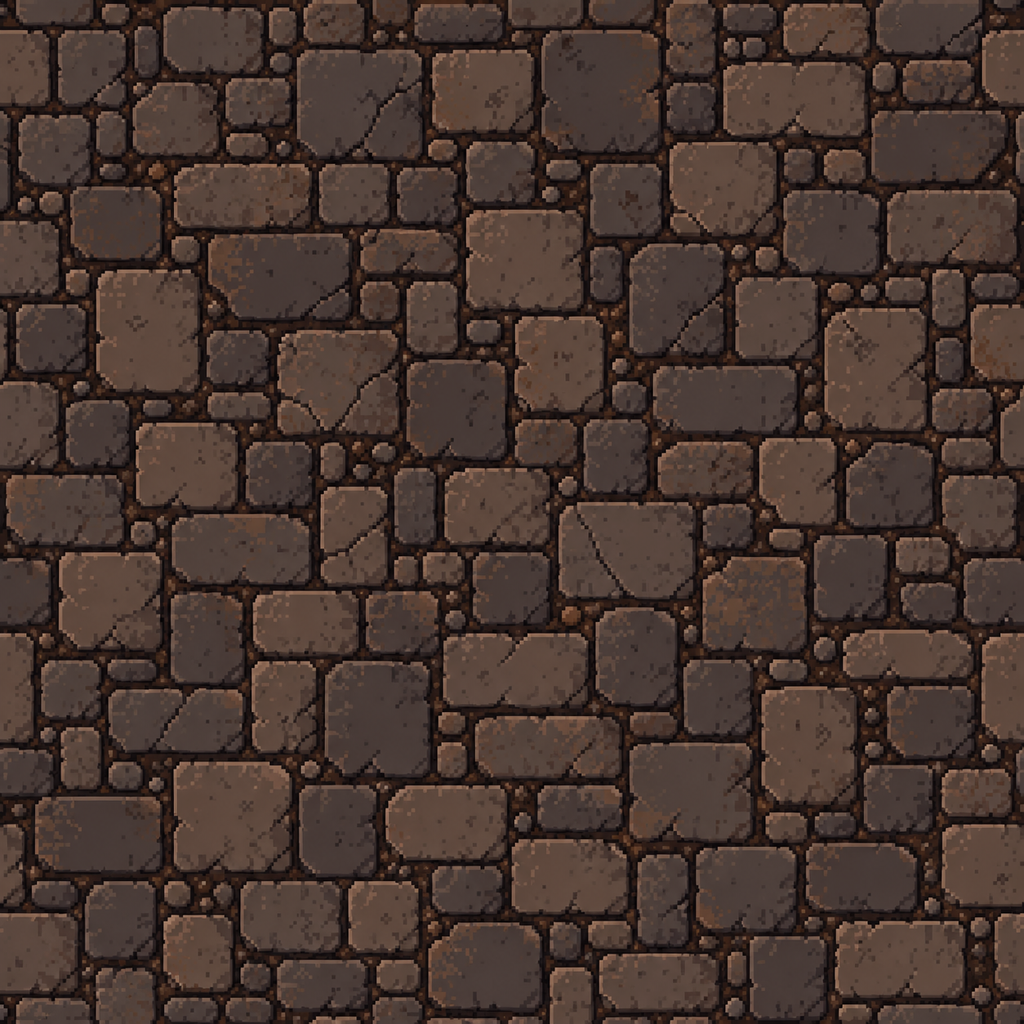
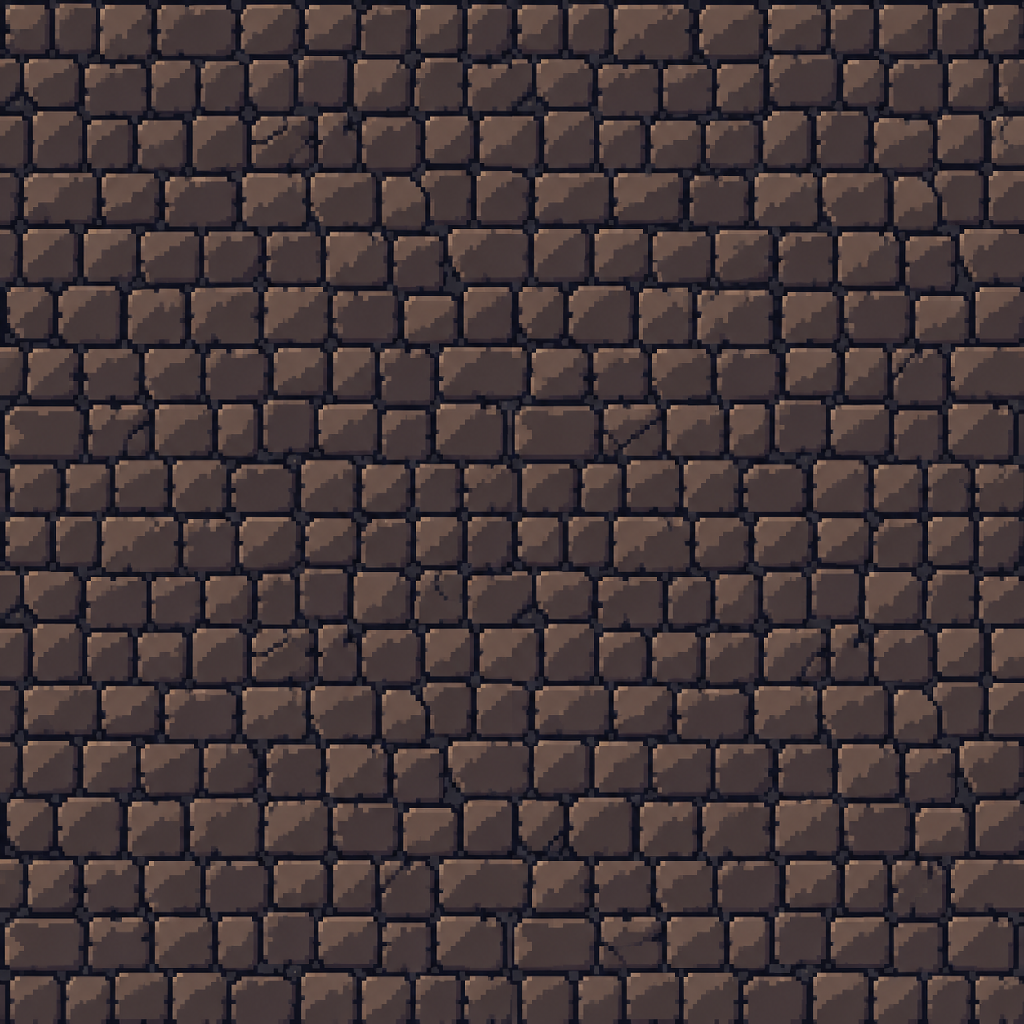
Close 193: finer dungeon floor, thinner wall-top masonry, smaller brazier light
Claude-Session: https://claude.ai/code/session_01M7b7fEc6KTtLRMcTBe4w6Y

diff --git a/live/scene.js b/live/scene.js
@@ -295,7 +295,7 @@ void main(){ vec2 q = v_uv * 2.0 - 1.0; float r = length(q), a = atan(q.y, q.x);
     const key = mapKey(m); if (VOID.key === key) return VOID.rec; VOID.key = key;
     const W = m.W, H = m.H, d = rockDist(m);
     const cv = VOID.cv || (VOID.cv = document.createElement('canvas')); cv.width = W; cv.height = H; const g = cv.getContext('2d'), im = g.createImageData(W, H);
-    for (let i = 0; i < W * H; i++) { const x = i % W, y = Math.floor(i / W), e = Math.min(x, y, W - 1 - x, H - 1 - y), v = Math.round(255 * Math.max(SS(1.4, 2.4, d[i]), 1 - SS(0, 2.5, e))); im.data[i * 4] = im.data[i * 4 + 1] = im.data[i * 4 + 2] = v; im.data[i * 4 + 3] = 255; }
+    for (let i = 0; i < W * H; i++) { const x = i % W, y = Math.floor(i / W), e = Math.min(x, y, W - 1 - x, H - 1 - y), v = Math.round(255 * Math.max(SS(1.25, 2.15, d[i]), 1 - SS(0, 2.5, e))); im.data[i * 4] = im.data[i * 4 + 1] = im.data[i * 4 + 2] = v; im.data[i * 4 + 3] = 255; }
     g.putImageData(im, 0, 0);
     if (!VOID.rec) VOID.rec = G.canvasTex('void', cv);
     else { const gl = G.gl; gl.bindTexture(gl.TEXTURE_2D, VOID.rec.t); gl.pixelStorei(gl.UNPACK_PREMULTIPLY_ALPHA_WEBGL, true); gl.texImage2D(gl.TEXTURE_2D, 0, gl.RGBA, gl.RGBA, gl.UNSIGNED_BYTE, cv); gl.generateMipmap(gl.TEXTURE_2D); }
@@ -696,7 +696,7 @@ void main(){ vec2 q = v_uv * 2.0 - 1.0; float r = length(q), a = atan(q.y, q.x);
     // a green fire reaches less far: the crypt is lit in pools, not flooded (TASKS 169); so does a cold hearth on the floor, its
     // near light in its own colour, or a zone's four to six of them wash its floor pale (TASKS 188)
     const TL = []; m.torches.forEach((tc, i) => { if (hid(tc)) return; const col = torchCol(m, tc), f = flick(i) * (col[2] > col[0] ? 1.35 : 1), big = tc.kind === 'fire', gr = col[1] > col[0] && col[1] > col[2] ? 0.7 : 1;
-      const pool = col[0] < 0.5 && tc.kind === 'brazier', pr = pool ? 0.6 : 1, pa = pool ? 0.6 : 1;
+      const pool = col[0] < 0.5 && tc.kind === 'brazier', pr = (pool ? 0.6 : 1) * (tc.kind === 'brazier' ? 0.8 : 1), pa = pool ? 0.6 : 1;   // a brazier's pool is a fifth smaller: its light fell off too gently (TASKS 193)
       TL.push([tc.x - (tc.side || 0) * 30, tc.y - (tc.side ? 10 : tc.kind === 'wall' ? -10 : 20), (big ? 200 : 220) * gr * pr, col, (big ? 1.5 : 1.15) * f * pa, 3.0]);
       if (col[0] < 0.5) TL.push([tc.x - (tc.side || 0) * 9, tc.y - 14, 70, col.map((v) => 0.3 + 0.7 * v), 2.2 * f, 2.6]);
       TL.push([tc.x - (tc.side || 0) * 16, tc.y + (tc.side ? 0 : tc.kind === 'wall' ? 34 : 6), 130 * gr * pr, pool ? col : col.map((v) => 0.5 + 0.5 * v), 1.7 * f * pa, 3.5]); });
@@ -919,7 +919,7 @@ void main(){ vec2 q = v_uv * 2.0 - 1.0; float r = length(q), a = atan(q.y, q.x);
     const lt = (x, y, r, col, amt, k = 2.2) => { if (x < cx - r || x > cx + VW + r || y < cy - r || y > cy + VH + r) return; G.draw(L.P.glow, { u_col: col, u_k: k, u_amt: amt }, G.xf(sx(x) - r, sy(y) - r * 0.8, 2 * r, 1.6 * r)); };
     // the hero is the frame's focus: a wide fill plus a tight warm key on the body that barely reaches the floor around him.
     // Away from fire the fill is the player's lamp: 3–4 cells of floor, traps and foes must read in a dark corridor (TASKS 170)
-    lt(h.x, h.y - 30, 250, [0.8, 0.72, 0.6], 0.2 + 0.8 * (1 - HERO.k)); lt(h.x, h.y - 44, 95, [1, 0.88, 0.7], 0.85 * (1 - 0.8 * HERO.k), 2.4);
+    lt(h.x, h.y - 30, 250, [0.8, 0.72, 0.6], 0.1 + 0.9 * (1 - HERO.k) ** 2); lt(h.x, h.y - 44, 95, [1, 0.88, 0.7], 0.85 * (1 - 0.8 * HERO.k), 2.4);
     for (const e of R.en) if (e.deadT < 0 && e.st !== 'idle' && vis(e.x, e.y)) lt(e.x, e.y - 40, 70, [1, 0.8, 0.6], 0.12);
     for (const [id, p] of Object.entries(RIM.hands)) lt(p[0] + cx, p[1] + cy, 60, [0.5, 1, 0.3], 0.8);
     TL.forEach((q) => lt(...q));

diff --git a/TASKS_COMPLETED.md b/TASKS_COMPLETED.md
@@ -37,6 +37,8 @@
 
 ## Свет и вид
 
+193. ✅ **[С]** Этап 2, меньшие разрывы (`fidelity_r5.md` 8–10, остаток 164). Свет комнаты ровный: кольца героя на 128–160 px 36–32 против 22–16, жаровня на 64–96 px 42–32 против 28–23 — фонарь героя гаснуть у огня сильнее (`0,2 + 0,8 · (1 − HERO.k)` → `0,1 + 0,9 · (1 − HERO.k)²`), радиус жаровен −20 %; приёмка: в боевой комнате чёрного ≥ 13 %, p75 ≤ 40. Кладка: толщина p90 22,2 против 15,6, пятно 50,6 против 17,7 тыс., пустота 26,4 против 30,3 % — `voidTex` `SS(1,4; 2,4)` → `SS(1,25; 2,15)`, клетки скалы дальше 3 клеток от пола со всех сторон — всегда пустота (пятна на стыке комнат рвутся); приёмка — как в 164. Пол: раствора 3–12 против 19–21 %, камни в 1,3–2 раза крупнее — перегенерировать `floor` подземелья: «top-down dungeon floor tile, small square cobblestones 8–10 px each, 1-px dark mortar #141420 between every stone, grey-brown stone #3e3234 / #6b5c56, flat 3 tone steps, no gradients, seamless». → Сделано по задаче: заливка фонаря героя `0,1 + 0,9 · (1 − k)²`, свет жаровен на 20 % уже, порог пустоты `SS(1,25; 2,15)`; пол подземелья перегенерирован (`art/prompts/floor_d6_tex.txt`: брусчатка ≈ 5 арт-px, раствор `#141420` в 1 арт-px вокруг каждого камня; прежний — `art/old/floor193/`): в кадре мелкие камни с отчётливыми швами вместо крупных плит. Кладка (`slate_r5.py`, кадр `match`): пустота 31,2 → 33,6 % ✓, крупнейшее пятно кладки 26 → 16 тыс. ✓; мерка задачи даёт 112 тыс. и p90 20 px, но это не кладка — тёмный синеватый пол синего зала попадает в класс «холодный сланец» (L 5–25, синий тон); без него толщина p90 12 px. Свет — не взят: комната боя (бокс той же геометрии, что у концепта, вокруг героя ×1,17) p75 47,7 → 44,5 (цель ≤ 40), чёрного 8,4 → 8,5 % (≥ 13). В `match` у героя k = 0 (жаровни до него не достают), поэтому новая формула фонаря там ничего не меняет; без фонаря комната совпала бы (p75 38, чёрного 13 %), но фонарь освещает и врагов вокруг героя — с ослабленным в 6 раз демон и гоблин уходят в черноту. Закрыто по решению игрока: яркость боя принята — фонарь держит врагов вокруг героя читаемыми.
+
 186. ✅ **[С][И]** Этап 2 (`frame_r4.md` 3). Лава — ровное оранжевое желе: L внутри лужи p10/p50/p90 52,7 / 55,6 / 58,5, Lstd 2,8 против 21–23 у концепта, корки 0 % против 53–67 %; лава складывается аддитивно поверх пола, швы плит видны сквозь неё; в `zone_lava` («Огненные глубины») ни одной клетки лавы, в концепте — 5,6 % кадра. Шейдер `LAVA`: порог плит `smoothstep(0,6; 0,66)` → `(0,48; 0,54)`, масштаб `w / 34` → `w / 16`, полоса `cool` 2–6,5 → 1–3 px, трещины горячие, корка без подъёма, `w` квантовать по арт-пикселю. Основа (`u_mode 0`) писать в `L.T.comp` до `LIT` (пол под ней не виден), эмиссивом оставить только `hot`. `dungeon.js`: в огненных глубинах ≥ 2 лавовые «реки» по 8+ клеток, одна в 1–2 комнатах от старта; сундуки и пропсы не ставить на лаву и в клетку от берега (сейчас сундук наполовину в лаве, `lava_pool`). Приёмка: Lstd ≥ 15, корки 35–55 %, в `zone_lava` лава ≥ 3 % кадра. → **[И] Дополнение игрока:** лава сейчас — пятна и лужицы (`dungeon.js`: кляксы в боковых нишах комнат), по кадру не видно, что это лавовый уровень. Нужны **потоки**: реки лавы шириной 2–5 клеток, которые текут через комнаты и между ними (из пролома в стене к провалу), с видимым течением — корка дрейфует по направлению потока, у берегов и камней горячая кромка; лавовые залы, где лава — большая часть пола. Образец — левая треть `ref.png`: широкие реки с коркой и горячими трещинами, кирпичные берега ступенями, цепные мосты над лавой, каменные островки и столбы в потоке. Оговорка: всё проходимо — через каждую реку мост, каменная тропа или брод из плит; путь к выходу, сундукам и тайникам всегда есть (`selfCheck`: достижимость, ни один спавн и сундук не в клетке от лавы). Сверять по биомному рефу лавы (212). → Шейдер (попутно с 189): внутри берега — ячейки Вороного (`w / 17`), плиты корки двух тонов `(0,16; 0,03; 0,02)` / `(0,34; 0,09; 0,045)`, трещины тремя ровными ступенями янтарь → оранжевый → красный, местами открытая река и утонувшие плиты, всё дрейфует; второй проход `u_mode 2` в режиме `emit` — свет огней больше не красит корку в оранжевый, пол сквозь лаву не виден. Тона по концепту: основная масса жидкой лавы красно-оранжевая `(243, 20, 2)`, жёлтого почти нет. Замер (поле `match`, внутри берега): Lstd 15,7 (концепт 19,2), p10 / p50 / p90 21 / 52 / 69 (концепт 20 / 54 / 72), L < 20 — 9,4 % (10,2 %). Осталось: реки и лавовые залы в `dungeon.js` (дополнение игрока), лава в `zone_lava`. → Реки и залы (`dungeon.js`, огненные глубины; у босса остались лужи): река — канал шириной 2–4 клетки, бредёт от истока под скалой через комнату (и всё, что на пути) к тупику; сквозь скалу это траншея с кладкой по берегам, как у концепта; коридор, который она пересекает, остаётся мостом, в комнате — каменная переправа в две клетки там, где ей нужны входы; скала в клетку толщиной между лавой и полом и стыки углом становятся лавой, обрывки меньше четырёх клеток убираются; река, отрезавшая хоть клетку пола, откатывается. Лавовый зал — комната больше чем наполовину лава, с тропами в две клетки от каждого входа к островку. На этаж 2–3 реки (первая в 1–2 комнатах от старта) и чаще всего зал: по 12 сидам × 2 этажа — 71–226 клеток лавы, реки по 17–91 клетке. Ничто не стоит на лаве и в клетке от берега (спавны, сундуки, горшки, пропсы, жаровни); бра на стене над берегом можно; лава светит комнату (`LIGHT_R.lava`). `selfCheck`: на огненных этажах ≥ 2 рек по 8+ клеток, ничего у берега; достижимость — прежняя. Течение: направление каждой клетки в маске лавы (G, B, без размытия), шейдер несёт узор реки по нему целиком; стоячая лава ползёт. `LAVA` переписан под концепт: жидкая оранжевая основа с тёмно-красными пятнами, сеть тонких жёлтых горячих трещин (не каждый шов светится), тонкая рваная горячая кромка у берега; маска лавы размыта вдвое слабее — берега ступенями по кладке. Бот выходит из лавы к ближайшему полу (рывком заходил в зал и горел). Баланс (`difficulty.cjs`, 12 сидов): эксперт 100 % побед, средний 42 % — как до рек, доля урона от ловушек 2 %. `zone_lava`: лавы 5,5 % кадра (цель ≥ 3 %). QA: `lava_hall`, `lava_river`. Цепных мостов нет — переправы каменные (задача допускает); корка в `match` теперь другая — замеры 189 по лаве устарели.
 
 194. ✅ **[С]** Этап 2, мелочи кадра (`frame_r4.md` 6, `fidelity_r5.md` 7). Белая крит-цифра ≈ 35 px — самое контрастное пятно боя (у концепта ≈ 19): 35 → 24 px. Подсказка клавиш внизу справа без подложки (`hint.png`). Имя и полоску HP элиты не рисовать, пока тело не видно (`elite_dark`: метки висят над пустотой; QA-постановка `elite` ставит элит на верх стен — переставить). Огненные глубины: герой залит оранжевым, сталь не читается — подъём героя (`HERO.lift`) в огненном биоме гасить слабее. Контактная тень героя L 25,6 против 13,9. «12» скелета 0 закрывает чашу жаровни. Источники света — одна жаровня по центру в 698 из 1385 комнат: нужны канделябры, свечные группы, стойки с факелами. Записать постановку `match` в `study/MATCH.md` (опись элементов концепта) и стиль в `study/STYLE.md` — их требует critics.md §5a. Удалить устаревший `frames/qa/_fx_sheet.png`. → Крит-цифра 32 → 24 px (с толчком — до 31). Подсказка клавиш внизу справа — на подложке (`keys_box`), qa больше не пишет «нет контейнера». Имя и полоска HP врага не рисуются, пока он стоит в скале (тело там — пустота); QA-постановка `elite` сдвигает врагов, попавших в скалу, на свободный пол не ближе 3–4 клеток друг от друга — все тела в кадре, подписи над своими. Контактная тень героя 0,5 → 0,85: L под ногами в `play` 20,6 → 15,6 (концепт 13,9). В `match` цифры урона не ставятся врагам под чашей жаровни. `frames/qa/_fx_sheet.png` удалён. Осталось: (1) огненные глубины — герой залит оранжевым: пробовал гасить подъём героя и его фонарь огнём слабее (×0,45) — разницы почти нет, причина в самом спрайте (розово-белый торс без тёмных тонов), это 197; (2) разнообразие источников света — нужны новые пропсы (канделябр, стойка с факелом), в `art/gen` их нет, это генерация ассетов; (3) `study/MATCH.md` и `study/STYLE.md`. → (2) Источники света: три новых пропса (`candlestick`, `candelabra`, `torch_stand`, `art/prompts/`, сид-референсы — свечи, жаровня, бра). `dungeon.js`: подсвечники у подножия верхней стены между бра и у боковых стен (1–3 на комнату), пара канделябров у сундука сокровищницы и у алтаря, пара стоек с факелами по бокам прохода в боковой или нижней стене; все светят в `lightRoom` (`LIGHT_R`). По 40 сидам × 8 этажей: подсвечников 2586, стоек 904, канделябров 546 на 5608 комнат. Стоячий свет ставится, только если весь пол комнаты остаётся связным от её входов (лава, сундуки и твёрдые пропсы — стены): подсвечник однажды запер угол между стойкой и лавой, бот застрял. Огни на фитилях и в чаше стойки (`STAND` в `scene.js`), свет в карте света, огни следуют за пропсом при толчке. Над всеми огнями и трещинами лавы — искры в один арт-пиксель. `lootvis`, `qa` — ok. Осталось: (1) огненные глубины — 197; (3) `study/MATCH.md` и `study/STYLE.md`. → (3) Записаны `study/MATCH.md` (опись концепта: камера и масштаб, бокс и центр каждого элемента боя, зон, лавы и HUD в px концепта, как каждый поставлен в `match` и чего нет) и `study/STYLE.md` (паспорт стиля по замерам критиков: значения, свет, палитра, линия, тени, деталь, эффекты, UI, кропы). (1) Огненные глубины — герой залит оранжевым — причина в спрайте, перенесено в 197. Закрыто.

diff --git a/TASKS.md b/TASKS.md
@@ -5,8 +5,6 @@
 
 ## Свет и вид
 
-193. ⏳ **[С]** Этап 2, меньшие разрывы (`fidelity_r5.md` 8–10, остаток 164). Свет комнаты ровный: кольца героя на 128–160 px 36–32 против 22–16, жаровня на 64–96 px 42–32 против 28–23 — фонарь героя гаснуть у огня сильнее (`0,2 + 0,8 · (1 − HERO.k)` → `0,1 + 0,9 · (1 − HERO.k)²`), радиус жаровен −20 %; приёмка: в боевой комнате чёрного ≥ 13 %, p75 ≤ 40. Кладка: толщина p90 22,2 против 15,6, пятно 50,6 против 17,7 тыс., пустота 26,4 против 30,3 % — `voidTex` `SS(1,4; 2,4)` → `SS(1,25; 2,15)`, клетки скалы дальше 3 клеток от пола со всех сторон — всегда пустота (пятна на стыке комнат рвутся); приёмка — как в 164. Пол: раствора 3–12 против 19–21 %, камни в 1,3–2 раза крупнее — перегенерировать `floor` подземелья: «top-down dungeon floor tile, small square cobblestones 8–10 px each, 1-px dark mortar #141420 between every stone, grey-brown stone #3e3234 / #6b5c56, flat 3 tone steps, no gradients, seamless».
-
 212. ⏳ **[И][С]** Рефы по биомам. `ref.png` — постер, где все биомы на одном листе: лавы там около шестой части, воды нет вовсе, поэтому сверять облик отдельного биома не с чем. Сгенерировать по рефу на биом (`gen.py one ref_<биом> art/prompts/ref_<биом>.txt`, `ref.png` подключается как стилевой реф автоматически, 1536×1024): `ref_dungeon`, `ref_crypt`, `ref_lava`, `ref_arcane`. Камера, масштаб героя (~85 px), палитра и линия — как у `ref.png`; в каждом — один кадр уровня этого биома с комнатами, коридором, героем и 2–3 врагами. В промпте — правила проходимости: лава и глубокая вода пересечены мостами или тропами, стены на месте. Это рефы облика биома, не замена `ref.png`: что принимать от каждого, решает игрок после генерации. Принятые лежат в `study/refs/`, их описывает `art/style_bible.txt`, критик сверки сравнивает QA-кадры `zone_*` с рефом своего биома. Новым биомам (R-27) — свой реф перед генерацией ассетов. → Сгенерированы четыре рефа (`study/refs/ref_{dungeon,crypt,lava,arcane}.png`, промпты `art/prompts/ref_*.txt`, общие правила кадра — `art/prompts/_concept_bible.txt`: вместо `style_bible` — освещённый кадр; генерация из отдельного конфига, чтобы библия ассетов с «flames unlit, no glow» не попала в промпт). Плюс два рефа природных пещер для будущих биомов (R-27): `ref_cave_water.png` и `ref_cave_lava.png` (промпты `art/prompts/ref_cave_*.txt`). Стиль пещер игроку нравится, но их нужно перегенерировать под текущую камеру игры: сейчас вид ближе к изометрии — высокие стены и базальтовые столбы закрывают пол, проходы — узкие карнизы. В промпт: «same flat top-down 3/4 camera as Image 1, low walls that show only their front face, floor clearly visible, wide walkable areas, muted palette»; для `ref_cave_lava` ещё «lava under 30 % of the frame, few basalt columns». Палитру и материалы (галька, мох, светящиеся грибы и кристаллы, водопады; базальт, корка лавы, лавопад, каменная арка) сохранить. → Перегенерированы с блоком CAMERA в промпте (первые версии — в черновиках сессии). `ref_cave_water` — под камеру: пол широкий, стены низкие, воды около трети кадра. `ref_cave_lava` лучше, но не до конца: центральный зал широкий, а лавы всё ещё ~40 % и по краям высокие базальтовые столбы — при следующей итерации жёстче ограничить столбы. Решение игрока: водная пещера — первая версия (`ref_cave_water.png`; спокойнее и красивее второй, вторая и попытка их совместить отброшены — сильно рябили), её ещё подстраивать под ракурс игры; лавовая — вторая версия (`ref_cave_lava.png`). Промпт `ref_cave_water.txt` уже с блоком CAMERA — по нему подгонять ракурс, сверяясь с обликом принятой версии: тихие крупные поверхности скал и воды, деталь только на важном. Ждут решения игрока.
 
 ## Ассеты
